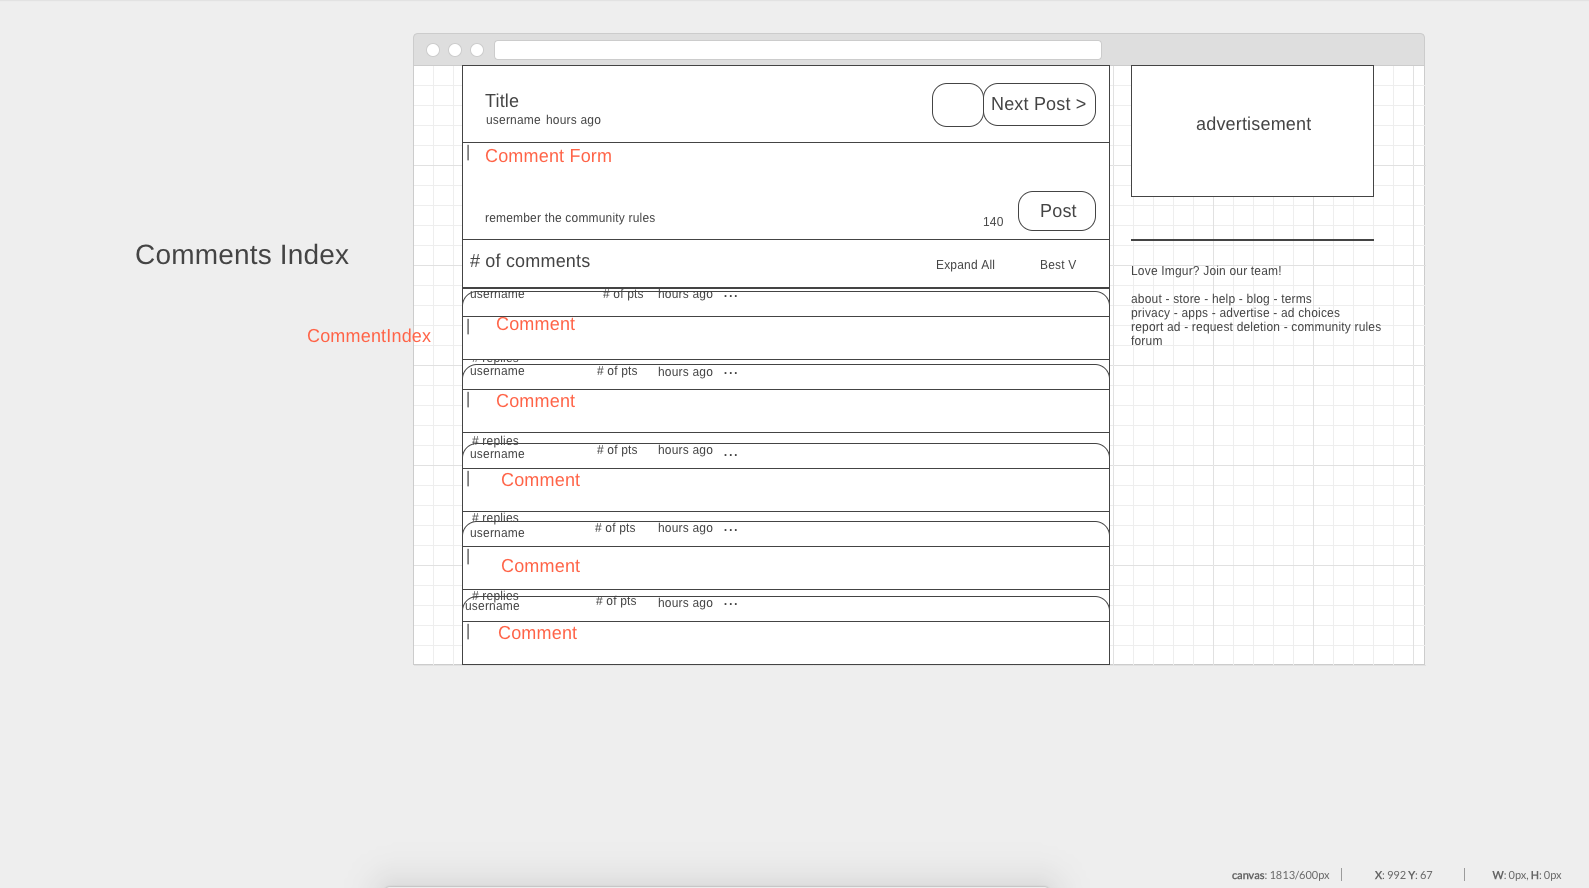
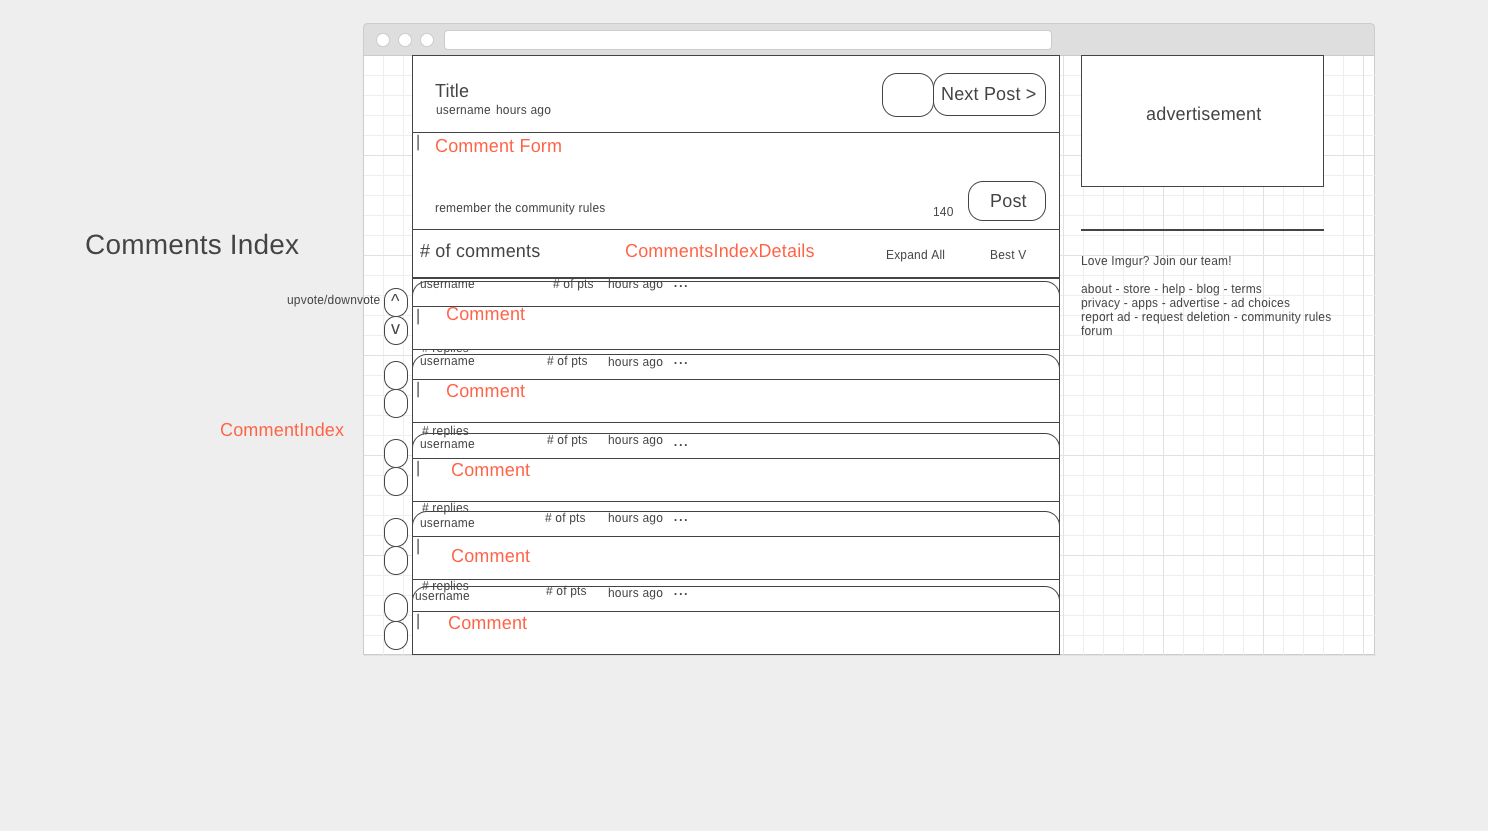
Update wireframes

diff --git a/docs/component-hierarchy.md b/docs/component-hierarchy.md
@@ -36,19 +36,21 @@
 11) CommentsIndex/CommentsIndexContainer
   Component that contains a list of all the comments for a single post.
 
-12) CommentsIndexItem
+12) CommentsIndexDetails
+
+13) CommentsIndexItem
   Component that contains a single comment for a post or comment.
 
-13) CommentsDetail/CommentsDetailContainer
+14) CommentsDetail/CommentsDetailContainer
   Component that renders details about a single comment, such as upvotes/downvotes.
 
-14) NewPostModul
+16) NewPostModul
   A container modul that allows the user to upload a post via a form.
 
-15) AuthForm
+17) AuthForm
   Component form that allows a user to sign in.
 
-16) AuthForm
+18) AuthForm
   Component form that allows a user to sign up.
 
 

diff --git a/docs/README.md b/docs/README.md
@@ -9,15 +9,15 @@ Imgur is a web application inspired by Imgur built using Ruby on Rails and React
 
  Hosting on Heroku
  New account creation, login, and guest/demo login
- # Feature 1
+  Feature 1
   Create Posts with images/gifs
- # Feature 2
+  Feature 2
   Comments on posts
- # Feature 3
+  Feature 3
   Upvote/Downvote posts and comments
- # Feature 4
+  Feature 4
   Search Bar
- # Bonus
+  Bonus
   Reply to comments
   Comment with gifs and pictures
   Production README sample
